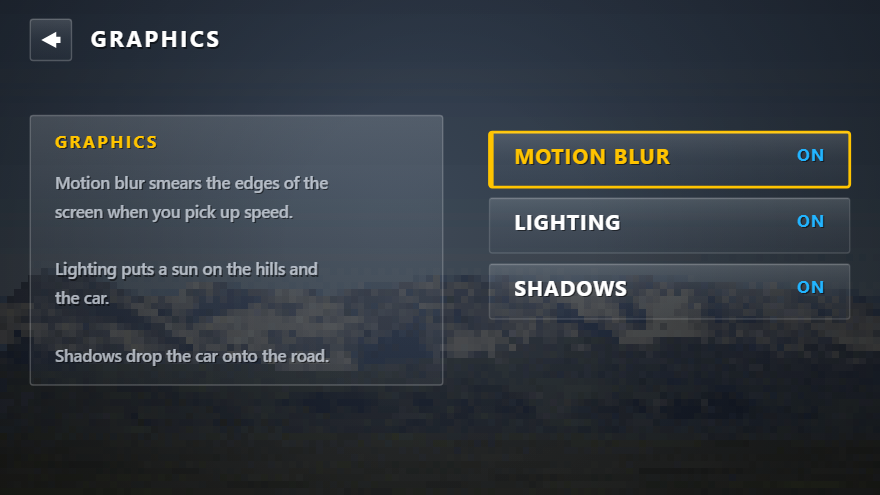
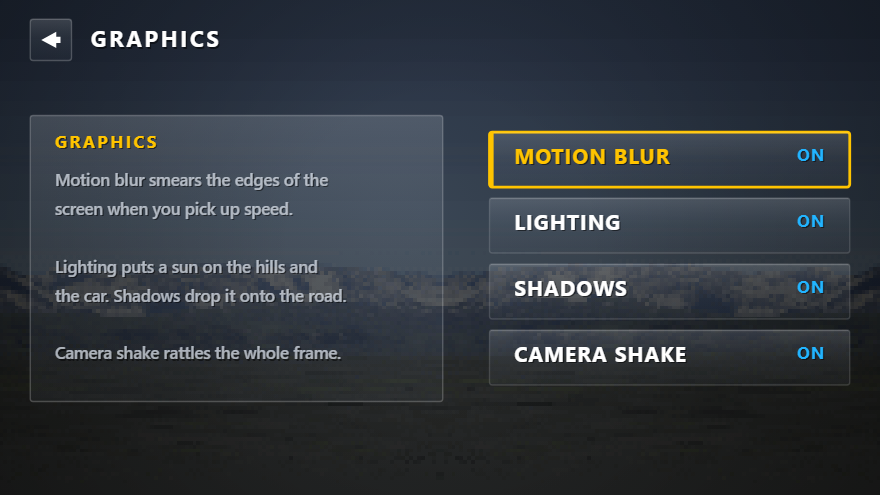
Cut the shake right down, and make the background seamless
The shake was far too strong and, worse, it made the vertical seams in the
tiled background shimmer - the panorama art does not wrap, so every tile
boundary was a hard line across the screen, and the shake made those lines
crawl.

- the art is now mirrored into a double-width strip, so the background
  tiles with no seam at all
- the shake is down to about a pixel of movement at racing speed on a smooth
  road (it was four times that)
- Camera shake is a new option in the graphics page and the in-race pause
  menu, so it can be switched off altogether

diff --git a/game/js/race.js b/game/js/race.js
@@ -255,6 +255,7 @@ const raceScene = {
         { label: 'Motion blur', right: st.motionBlur === 0 ? 'off' : 'on' },
         { label: 'Lighting', right: st.lighting === 0 ? 'off' : 'on' },
         { label: 'Shadows', right: st.shadows === 0 ? 'off' : 'on' },
+        { label: 'Camera shake', right: st.shake === 0 ? 'off' : 'on' },
         { label: 'Auto acceleration', right: st.auto === 1 ? 'on' : 'off' },
         { label: 'Speed units', right: [D.lang[66], D.lang[67]][st.units] },
       ];
@@ -274,7 +275,8 @@ const raceScene = {
       else if (i === 2) st.motionBlur = (st.motionBlur + 1) % 2;
       else if (i === 3) st.lighting = (st.lighting + 1) % 2;
       else if (i === 4) st.shadows = (st.shadows + 1) % 2;
-      else if (i === 5) st.auto = (st.auto + 1) % 2;
+      else if (i === 5) st.shake = (st.shake + 1) % 2;
+      else if (i === 6) st.auto = (st.auto + 1) % 2;
       else st.units = (st.units + 1) % 2;
       R3D.persist();
       if (i >= 2 && i <= 4) this.rebuildGraphics();
@@ -749,7 +751,8 @@ const raceScene = {
     const scale = this.camMode === 'hood' || this.camMode === 'bumper' ? 0.4 : 1;
     // in screen pixels - a couple of pixels is a rattle, more than that is a
     // wobble
-    const amt = this.shakeAmount() * 4.0 * scale;
+    if (S().settings.shake === 0) { this.shakeX = 0; this.shakeY = 0; return; }
+    const amt = this.shakeAmount() * 1.1 * scale;
     let ox = 0, oy = 0;
     if (amt >= 0.02) {
       this.shakeT = (this.shakeT || 0) + dt * (14 + 16 * Math.min(1, this.speed / 4));
@@ -823,7 +826,7 @@ const raceScene = {
   // -------------------------------------------------- draw
   draw() {
     const th = this.tc;
-    const bg = R3D._bgImg[this.theme];
+    const bg = R3D.bgCanvas(this.theme) || R3D._bgImg[this.theme];
     const bgW = bg.width * BG_SCALE, bgH = bg.height * BG_SCALE;
     // the background art is pinned to the horizon of whichever camera is
     // active; looking straight down there is no horizon, so it is skipped

diff --git a/game/js/scenes.js b/game/js/scenes.js
@@ -478,6 +478,7 @@ const settingsScene = {
       { label: 'Motion blur', right: st.motionBlur === 0 ? 'off' : 'on' },
       { label: 'Lighting', right: st.lighting === 0 ? 'off' : 'on' },
       { label: 'Shadows', right: st.shadows === 0 ? 'off' : 'on' },
+      { label: 'Camera shake', right: st.shake === 0 ? 'off' : 'on' },
     ];
   },
   pick(i) {
@@ -485,7 +486,8 @@ const settingsScene = {
     if (this.page === 1) {
       if (i === 0) st.motionBlur = (st.motionBlur + 1) % 2;
       else if (i === 1) st.lighting = (st.lighting + 1) % 2;
-      else st.shadows = (st.shadows + 1) % 2;
+      else if (i === 2) st.shadows = (st.shadows + 1) % 2;
+      else st.shake = (st.shake + 1) % 2;
       R3D.persist();
       if (R3D.raceScene && R3D.raceScene.rebuildGraphics) R3D.raceScene.rebuildGraphics();
       return;
@@ -527,18 +529,18 @@ const settingsScene = {
       header('Graphics', { back: () => { this.page = 0; this.sel = 6; } });
       const items = this.gfxItems();
       menuColumn(items, (i) => { this.sel = i; this.pick(i); }, { x: COL_X, y: 96, h: 40, gap: 8, sel: this.sel });
-      panel(PAD, 84, 300, 196, { r: 2, fill: PLATE_SOFT });
+      panel(PAD, 84, 300, 208, { r: 2, fill: PLATE_SOFT });
       tag('Graphics', PAD + 18, 98, 0, C.accent, 12, 2);
       const tips = [
         'Motion blur smears the edges of the',
         'screen when you pick up speed.',
         '',
         'Lighting puts a sun on the hills and',
-        'the car.',
+        'the car. Shadows drop it onto the road.',
         '',
-        'Shadows drop the car onto the road.',
+        'Camera shake rattles the whole frame.',
       ];
-      tips.forEach((t, i) => text(t, PAD + 18, 128 + i * 21, 0, C.dim, 12, '500'));
+      tips.forEach((t, i) => text(t, PAD + 18, 126 + i * 21, 0, C.dim, 12, '500'));
       return;
     }
     header(D.lang[107], { back: 'title' });

diff --git a/game/js/engine.js b/game/js/engine.js
@@ -85,6 +85,33 @@ function synGeometry(m) {
   return g;
 }
 
+// The background panoramas do not wrap - the left and right edges of the art
+// are completely different - so tiling them puts a hard vertical seam every
+// tile. Mirroring the art into a double-width strip makes it tile seamlessly,
+// which matters more than it sounds: a seam that jitters with the camera
+// shake reads as the whole screen breaking up.
+R3D._bgCanvas = {};
+function seamlessBg(theme, img) {
+  if (R3D._bgCanvas[theme]) return R3D._bgCanvas[theme];
+  const c = document.createElement('canvas');
+  c.width = img.width * 2;
+  c.height = img.height;
+  const g = c.getContext('2d');
+  g.drawImage(img, 0, 0);
+  g.save();
+  g.translate(c.width, 0);
+  g.scale(-1, 1);
+  g.drawImage(img, 0, 0);
+  g.restore();
+  R3D._bgCanvas[theme] = c;
+  return c;
+}
+R3D.bgCanvas = function (theme) {
+  const img = R3D._bgImg && R3D._bgImg[theme];
+  if (!img || !img.complete || !img.width) return null;
+  return seamlessBg(theme, img);
+};
+
 R3D.buildCar = function (carIdx, lit, cast) {
   const grp = new THREE.Group();
   // With lighting on the body picks up the sun; the texture is painted, so the

diff --git a/game/js/main.js b/game/js/main.js
@@ -580,7 +580,7 @@ function defSave() {
     names, scores,
     champ: 0,
     settings: { sound: 2, units: 0, auto: 0, titleSong: 0, tilt: 0, buttons: 1, camera: 'chase',
-                motionBlur: 1, lighting: 1, shadows: 1 },
+                motionBlur: 1, lighting: 1, shadows: 1, shake: 1 },
     name: D.lang[68],
   };
 }
@@ -905,8 +905,8 @@ R3D.uiTheme = function () {
 };
 
 R3D.drawBackground = function (theme) {
-  const img = theme && R3D._bgImg ? R3D._bgImg[theme] : null;
-  if (img && img.complete && img.width) {
+  const img = theme ? R3D.bgCanvas(theme) : null;
+  if (img && img.width) {
     const s = Math.max(W / img.width, H / img.height);
     const w = img.width * s, h = img.height * s;
     ui.drawImage(img, (W - w) / 2, (H - h) / 2, w, h);

diff --git a/game/_shot.html b/game/_shot.html
@@ -149,7 +149,7 @@
       }
       await wait(600);
     }
-    window.__carY = R.currentScene() ? R.currentScene().pos.y : -1;
+    window.__carY = (R.currentScene() && R.currentScene().pos) ? R.currentScene().pos.y : -1;
     document.title = 'ready';
   }).catch((e) => { document.title = 'error: ' + e.message + ' | same=' + (window.R3D.currentScene() === window.R3D.raceScene) + ' | cur=' + (window.R3D.currentScene() ? Object.keys(window.R3D).filter(k => window.R3D[k] === window.R3D.currentScene()).join(',') : 'null') + ' | fn=' + (window.R3D.raceScene && typeof window.R3D.raceScene.setCamera) + ' | race=' + (typeof (window.R3D && window.R3D.raceScene)) + ' | ' + (window.__errs || []).join(' ; '); });
 </script>

diff --git a/README.md b/README.md
@@ -86,13 +86,13 @@ Settings → *Graphics*, or the same three rows in the in-race pause menu.
 | Option | What it does |
 |--------|--------------|
 | **Motion blur** | A radial blur that grows with your speed. Only the far edges of the screen smear — the car and the road ahead stay sharp, so it reads as speed rather than as a smudge. |
+| **Camera shake** | The whole frame — scenery, car and HUD together — rattles by a pixel or two, more at speed and rougher where the suspension is working. Because everything moves together it never reads as the car wobbling on its own. Can be switched off entirely. |
 | **Lighting** | Puts a sun on the track: the slopes that face the light are brighter, the ones turned away are darker, and the car picks up the same light. |
 | **Shadows** | A real shadow map. The car casts a shadow onto the road that moves with it; the shadow box follows the car, so the map only ever has to cover the road around you. |
 
-The view also picks up a **shake** as you drive: the whole frame — scenery,
-car and HUD together — rattles by a pixel or two, more at speed and rougher
-where the suspension is working. It is deliberately mild, and because the
-whole frame moves together it never reads as the car wobbling on its own.
+The background panoramas are mirrored into a double-width strip so they tile
+without a seam — a hard vertical line that moves with the camera is very
+noticeable, and it was what made the view look broken.
 
 Changing a setting rebuilds what it affects on the spot — no restart, and the
 race carries on.
